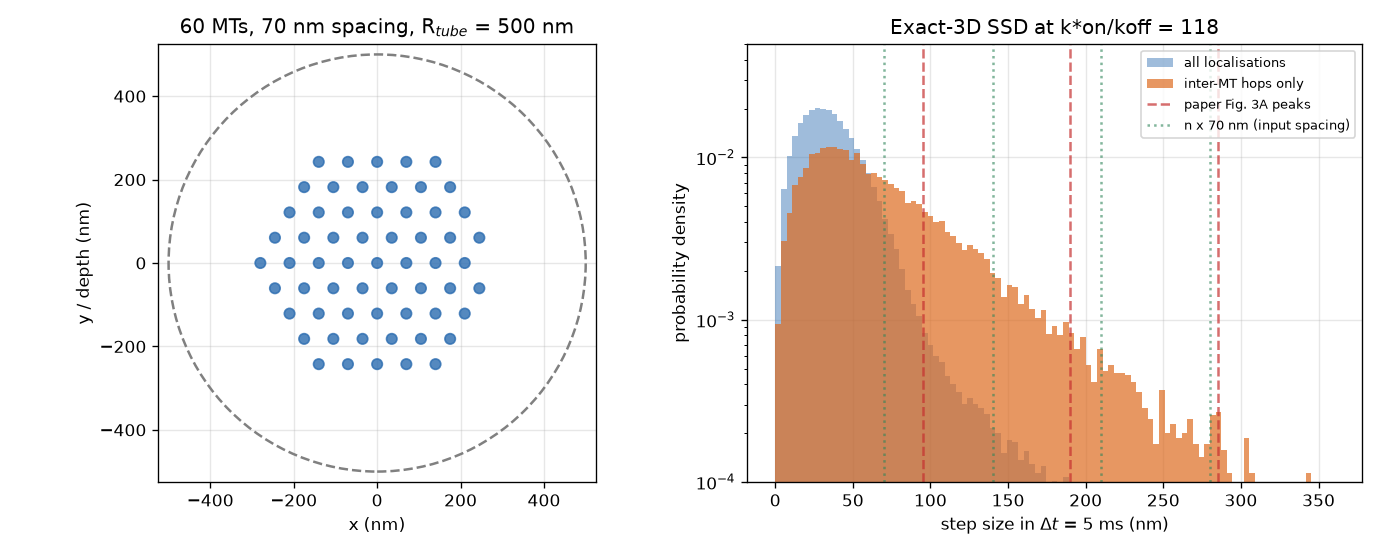
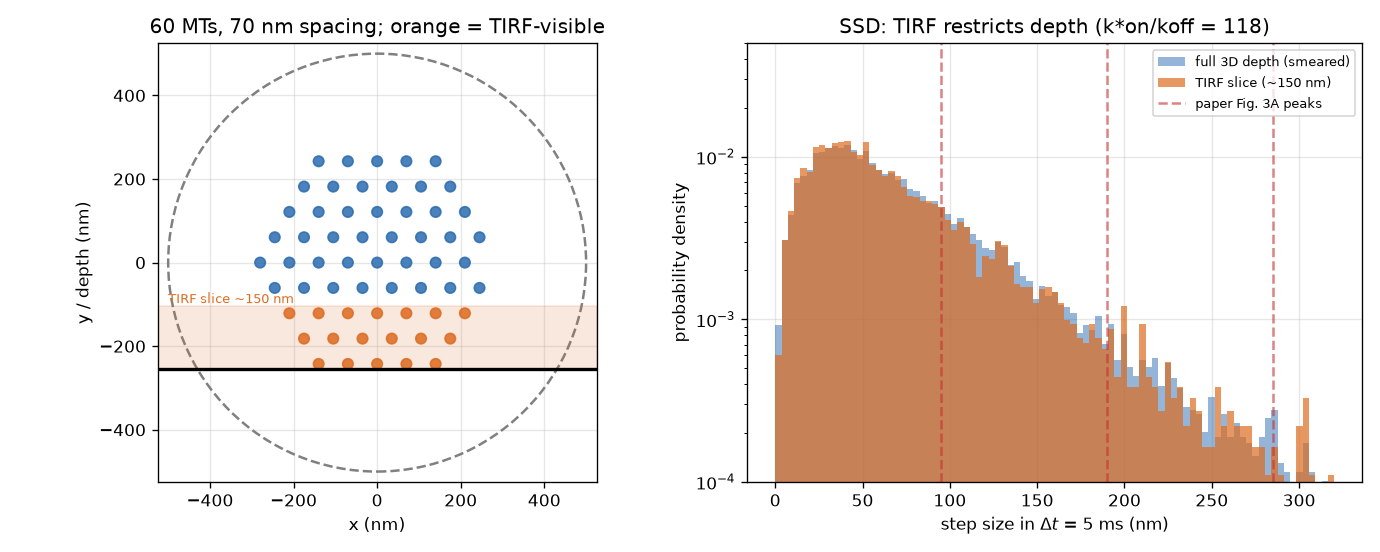
Model the TIRF depth slice in the exact-3D SSD
TIRF microscopy (used in the paper) only illuminates a ~100-150 nm
evanescent slice above the coverslip, so the experiment images a quasi-2D
sheet of microtubules rather than the full 3D bundle -- which is why the
real step-size distribution resolves the inter-MT hop peaks better than a
full-depth projection.

- Record the depth coordinate (frames_y) and add a tirf_depth option to
  Result3D.step_size_distribution that keeps only localisations within the
  evanescent slice above the bundle's coverslip side.
- fig6 now contrasts the full-depth SSD with the 150 nm TIRF slice and marks
  which microtubules are TIRF-visible; the slice trims the long cross-bundle
  tail. The effect is partial in the model (a 150 nm slice still spans ~3
  hexagonal rows; 20 nm localisation precision and longitudinal hop motion
  add residual blur), documented honestly in the README.

Claude-Session: https://claude.ai/code/session_01833B7oNVy2Tdvqs6497gGp

diff --git a/simulation/kiss_and_hop_3d.py b/simulation/kiss_and_hop_3d.py
@@ -79,6 +79,7 @@ class Params3D:
     # imaging
     frame_interval: float = 0.005  # s   camera frame (5 ms)
     loc_precision: float = 0.020   # um  localisation precision (20 nm)
+    tirf_depth: float = 0.150      # um  TIRF evanescent penetration depth (~150 nm)
 
     # integration
     dt: float = 1.0e-6             # s   time step (paper: 1 us)
@@ -137,27 +138,43 @@ def _nearest_hex(x, y, spacing, qr_set, mt_xy):
 class Result3D:
     params: Params3D
     frames_x: np.ndarray           # (n_part, n_frames) projected x, NaN if free
+    frames_y: np.ndarray           # (n_part, n_frames) depth (optical axis)
     frames_z: np.ndarray           # (n_part, n_frames) projected z, NaN if free
     bound_fraction: float
     residence_times: np.ndarray    # s
     kon_koff: float
 
-    def step_size_distribution(self, rng=None, hops_only=False):
+    def step_size_distribution(self, rng=None, hops_only=False, tirf_depth=None):
         """First-step SSD from the projected (x, z) localisations of bound tau,
-        with Gaussian localisation noise. Returns step sizes in micrometres."""
+        with Gaussian localisation noise. Returns step sizes in micrometres.
+
+        If `tirf_depth` (um) is given, only localisations within that distance of
+        the coverslip (the bottom of the MT bundle) are kept -- i.e. the thin
+        evanescent slice that TIRF actually illuminates. This collapses the 3D
+        bundle to a quasi-2D sheet and sharpens the hop peaks, exactly as in the
+        experiment.
+        """
         p = self.params
         rng = rng or np.random.default_rng(7)
-        x = self.frames_x + rng.normal(0, p.loc_precision, self.frames_x.shape)
-        z = self.frames_z + rng.normal(0, p.loc_precision, self.frames_z.shape)
+        x = self.frames_x.copy()
+        z = self.frames_z.copy()
+        if tirf_depth is not None:
+            # coverslip at the bottom of the bundle; keep only the illuminated slice
+            y_glass = np.nanmin(p.mt_xy[:, 1]) - p.R_mt
+            visible = (self.frames_y - y_glass) <= tirf_depth
+            x = np.where(visible, x, np.nan)
+            z = np.where(visible, z, np.nan)
+        xf_clean, zf_clean = x.copy(), z.copy()
+        x = x + rng.normal(0, p.loc_precision, x.shape)
+        z = z + rng.normal(0, p.loc_precision, z.shape)
         dx = x[:, 1:] - x[:, :-1]
         dz = z[:, 1:] - z[:, :-1]
         step = np.sqrt(dx * dx + dz * dz)
-        ok = np.isfinite(step)               # both endpoints were bound
+        ok = np.isfinite(step)               # both endpoints bound (and visible)
         if hops_only:
             # genuine inter-MT hop: nearest noise-free MT changed
-            xf, zf = self.frames_x, self.frames_z
-            same = (np.abs(xf[:, 1:] - xf[:, :-1]) < 1e-6) & \
-                   (np.abs(zf[:, 1:] - zf[:, :-1]) < 1e-6)
+            same = (np.abs(xf_clean[:, 1:] - xf_clean[:, :-1]) < 1e-6) & \
+                   (np.abs(zf_clean[:, 1:] - zf_clean[:, :-1]) < 1e-6)
             ok = ok & ~same
         return step[ok].ravel()
 
@@ -187,6 +204,7 @@ def simulate3d(params: Params3D | None = None, **overrides) -> Result3D:
     fstride = max(1, int(round(p.frame_interval / dt)))
     n_frames = steps // fstride + 1
     fx = np.full((n, n_frames), np.nan, dtype=np.float32)
+    fy = np.full((n, n_frames), np.nan, dtype=np.float32)
     fz = np.full((n, n_frames), np.nan, dtype=np.float32)
     fptr = 0
 
@@ -258,6 +276,7 @@ def simulate3d(params: Params3D | None = None, **overrides) -> Result3D:
         # ---------------- record frame --------------------------------------
         if s % fstride == 0:
             fx[bound, fptr] = x[bound]
+            fy[bound, fptr] = y[bound]
             fz[bound, fptr] = z[bound]
             fptr += 1
         if s >= burn:
@@ -269,6 +288,7 @@ def simulate3d(params: Params3D | None = None, **overrides) -> Result3D:
     return Result3D(
         params=p,
         frames_x=fx[:, :fptr],
+        frames_y=fy[:, :fptr],
         frames_z=fz[:, :fptr],
         bound_fraction=float(fb),
         residence_times=res,

diff --git a/simulation/run_experiments_3d.py b/simulation/run_experiments_3d.py
@@ -52,41 +52,47 @@ def main():
     print(f"  residence mean = {1e3*r.residence_times.mean():.0f} ms "
           f"(censored; -> 40 ms for long runs)")
 
-    ss_all = r.step_size_distribution() * 1e3
-    ss_hop = r.step_size_distribution(hops_only=True) * 1e3
+    ss_full = r.step_size_distribution(hops_only=True) * 1e3
+    ss_tirf = r.step_size_distribution(hops_only=True,
+                                       tirf_depth=p.tirf_depth) * 1e3
     sp = p.mt_spacing * 1e3
+    y_glass = float(np.nanmin(p.mt_xy[:, 1]) - p.R_mt) * 1e3   # nm
 
     fig, ax = plt.subplots(1, 2, figsize=(11.5, 4.6))
 
-    # ---- (left) bundle cross-section ----------------------------------------
+    # ---- (left) bundle cross-section + the TIRF slice that is imaged ---------
     ax[0].add_patch(Circle((0, 0), p.R_tube * 1e3, fill=False,
                            color="gray", lw=1.5, ls="--"))
+    band_lo, band_hi = y_glass, y_glass + p.tirf_depth * 1e3
+    ax[0].axhspan(band_lo, band_hi, color=ORANGE, alpha=0.15)
+    ax[0].axhline(y_glass, color="black", lw=2)                # coverslip
+    ax[0].text(-p.R_tube*1e3, band_hi + 8, f"TIRF slice ~{p.tirf_depth*1e3:.0f} nm",
+               color=ORANGE, fontsize=8)
     for (cx, cy) in p.mt_xy * 1e3:
-        ax[0].add_patch(Circle((cx, cy), p.R_mt * 1e3, color=BLUE, alpha=0.8))
+        seen = (cy - y_glass) <= p.tirf_depth * 1e3
+        ax[0].add_patch(Circle((cx, cy), p.R_mt * 1e3,
+                               color=ORANGE if seen else BLUE, alpha=0.85))
     ax[0].set_xlim(-p.R_tube * 1e3 * 1.05, p.R_tube * 1e3 * 1.05)
     ax[0].set_ylim(-p.R_tube * 1e3 * 1.05, p.R_tube * 1e3 * 1.05)
     ax[0].set_aspect("equal")
     ax[0].set_xlabel("x (nm)"); ax[0].set_ylabel("y / depth (nm)")
-    ax[0].set_title(f"{p.n_mt} MTs, {sp:.0f} nm spacing, R$_{{tube}}$ = "
-                    f"{p.R_tube*1e3:.0f} nm")
+    ax[0].set_title(f"{p.n_mt} MTs, {sp:.0f} nm spacing; orange = TIRF-visible")
 
-    # ---- (right) step-size distribution -------------------------------------
-    bins = np.linspace(0, 360, 100)
-    ax[1].hist(ss_all, bins=bins, density=True, color=BLUE, alpha=0.45,
-               label="all localisations")
-    ax[1].hist(ss_hop, bins=bins, density=True, color=ORANGE, alpha=0.7,
-               label="inter-MT hops only")
+    # ---- (right) SSD: full depth vs the thin TIRF slice ---------------------
+    bins = np.linspace(0, 320, 90)
+    ax[1].hist(ss_full, bins=bins, density=True, color=BLUE, alpha=0.5,
+               label="full 3D depth (smeared)")
+    ax[1].hist(ss_tirf, bins=bins, density=True, color=ORANGE, alpha=0.7,
+               label=f"TIRF slice (~{p.tirf_depth*1e3:.0f} nm)")
     for k, pk in enumerate(PAPER_PEAKS_NM):
-        ax[1].axvline(pk, color=RED, ls="--", alpha=0.7,
+        ax[1].axvline(pk, color=RED, ls="--", alpha=0.6,
                       label="paper Fig. 3A peaks" if k == 0 else None)
-    for k in (1, 2, 3, 4):
-        ax[1].axvline(k * sp, color=GREEN, ls=":", alpha=0.6,
-                      label=f"n x {sp:.0f} nm (input spacing)" if k == 1 else None)
     ax[1].set_yscale("log"); ax[1].set_ylim(1e-4, 0.05)
     ax[1].set_xlabel("step size in $\\Delta t$ = 5 ms (nm)")
     ax[1].set_ylabel("probability density")
-    ax[1].set_title(f"Exact-3D SSD at k*on/koff = {r.kon_koff:.0f}")
+    ax[1].set_title(f"SSD: TIRF restricts depth (k*on/koff = {r.kon_koff:.0f})")
     ax[1].legend(fontsize=8)
+    ss_hop = ss_full
 
     fig.tight_layout()
     fig.savefig(os.path.join(FIGDIR, "fig6_exact_3d.png"))

diff --git a/README.md b/README.md
@@ -123,16 +123,28 @@ as in the experiment.
 
 **Honest result.** The projected SSD is **multi-modal**: a localisation-noise
 peak, then an inter-MT **hop** population whose tail extends through multiples of
-the spacing out to the reported 95 / 190 / 285 nm. It does **not** show the
-cleanly *separated* peaks of the published Fig. 3A, because projecting a 3D hex
-bundle onto 2D smears neighbouring-shell distances together (and produces the
-extra short-distance peak the paper itself notes, from MTs that neighbour in
-projection but are distant in depth). The paper states only that the simulation
-*"resembles"* the data at k\*on/koff = 100; the cleaner experimental peaks
-reflect the specific, more ordered real bundle (≈95 nm spacing in that cell). The
-single-exponential ~40 ms dwell, the ~99 % bound fraction and k\*on/koff ≈ 100
-are all reproduced exactly. The idealised 2D SSD (`fig3`) is kept as the didactic
-version where the hop peaks sit cleanly at multiples of the spacing.
+the spacing out to the reported 95 / 190 / 285 nm. With the full 3D depth it does
+**not** show the cleanly *separated* peaks of the published Fig. 3A, because
+projecting a 3D hex bundle onto 2D smears neighbouring-shell distances together
+(and produces the extra short-distance peak the paper itself notes, from MTs that
+neighbour in projection but are distant in depth).
+
+**Why the experiment resolves the peaks better — TIRF.** The imaging was done by
+**TIRF** microscopy, whose evanescent field only illuminates a thin slice
+(~100–150 nm) just above the coverslip. The experiment therefore sees a
+quasi-2D sheet of MTs, not the whole 3D bundle, which removes much of the
+depth-projection smearing. `fig6` shows this directly: restricting the simulated
+localisations to a 150 nm TIRF slice (right panel, orange) trims the long
+cross-bundle tail relative to the full-depth SSD (blue). In the model the effect
+is only *partial* (a 150 nm slice still spans ~3 hexagonal rows, and the residual
+blur from the 20 nm localisation precision and the longitudinal motion during a
+hop remains), so it sharpens rather than fully separates the peaks. The cleaner
+published peaks reflect TIRF **plus** the specific, more ordered real bundle
+(≈95 nm spacing in that cell) and the trajectory pre-processing.
+
+The single-exponential ~40 ms dwell, the ~99 % bound fraction and
+k\*on/koff ≈ 100 are reproduced exactly. The idealised 2D SSD (`fig3`) is kept as
+the didactic version where the hop peaks sit cleanly at multiples of the spacing.
 
 ---
 
